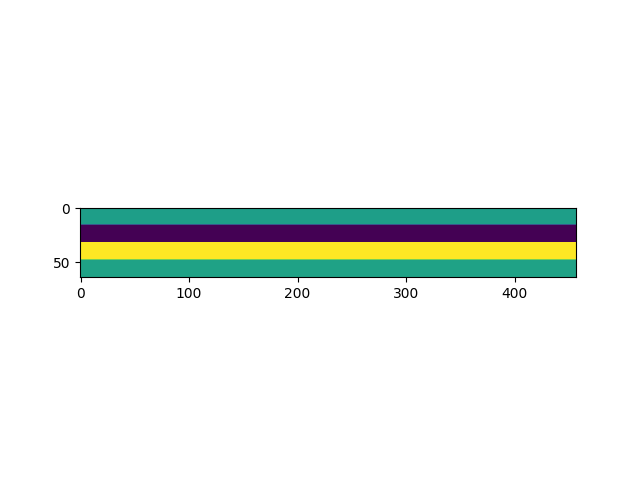
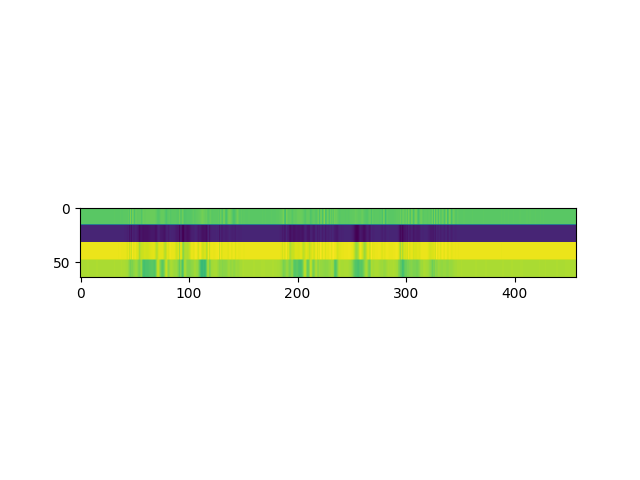
tmp

Changed region(s): [[0.125, 0.4375, 0.9062, 0.5938]]

diff --git a/model.py b/model.py
@@ -111,7 +111,7 @@ class ContentEncoder(nn.Module):
             x = r(x)
             x = d(x)
         x = self.output_layers(x)
-        x = x / torch.sum(x**2 + 1e-6, dim=1, keepdim=True)**0.5
+        x = x / (torch.std(x, dim=1, keepdim=True) + 1e-4)
         return x
 
 

diff --git a/train.py b/train.py
@@ -47,7 +47,7 @@ Es = C.speaker_encoder
 G = C.generator
 
 weight_kl = 0.02
-weight_con = 0# 10.0
+weight_con = 10.0
 weight_rec = 10.0
 weight_mel = 1.0
 
